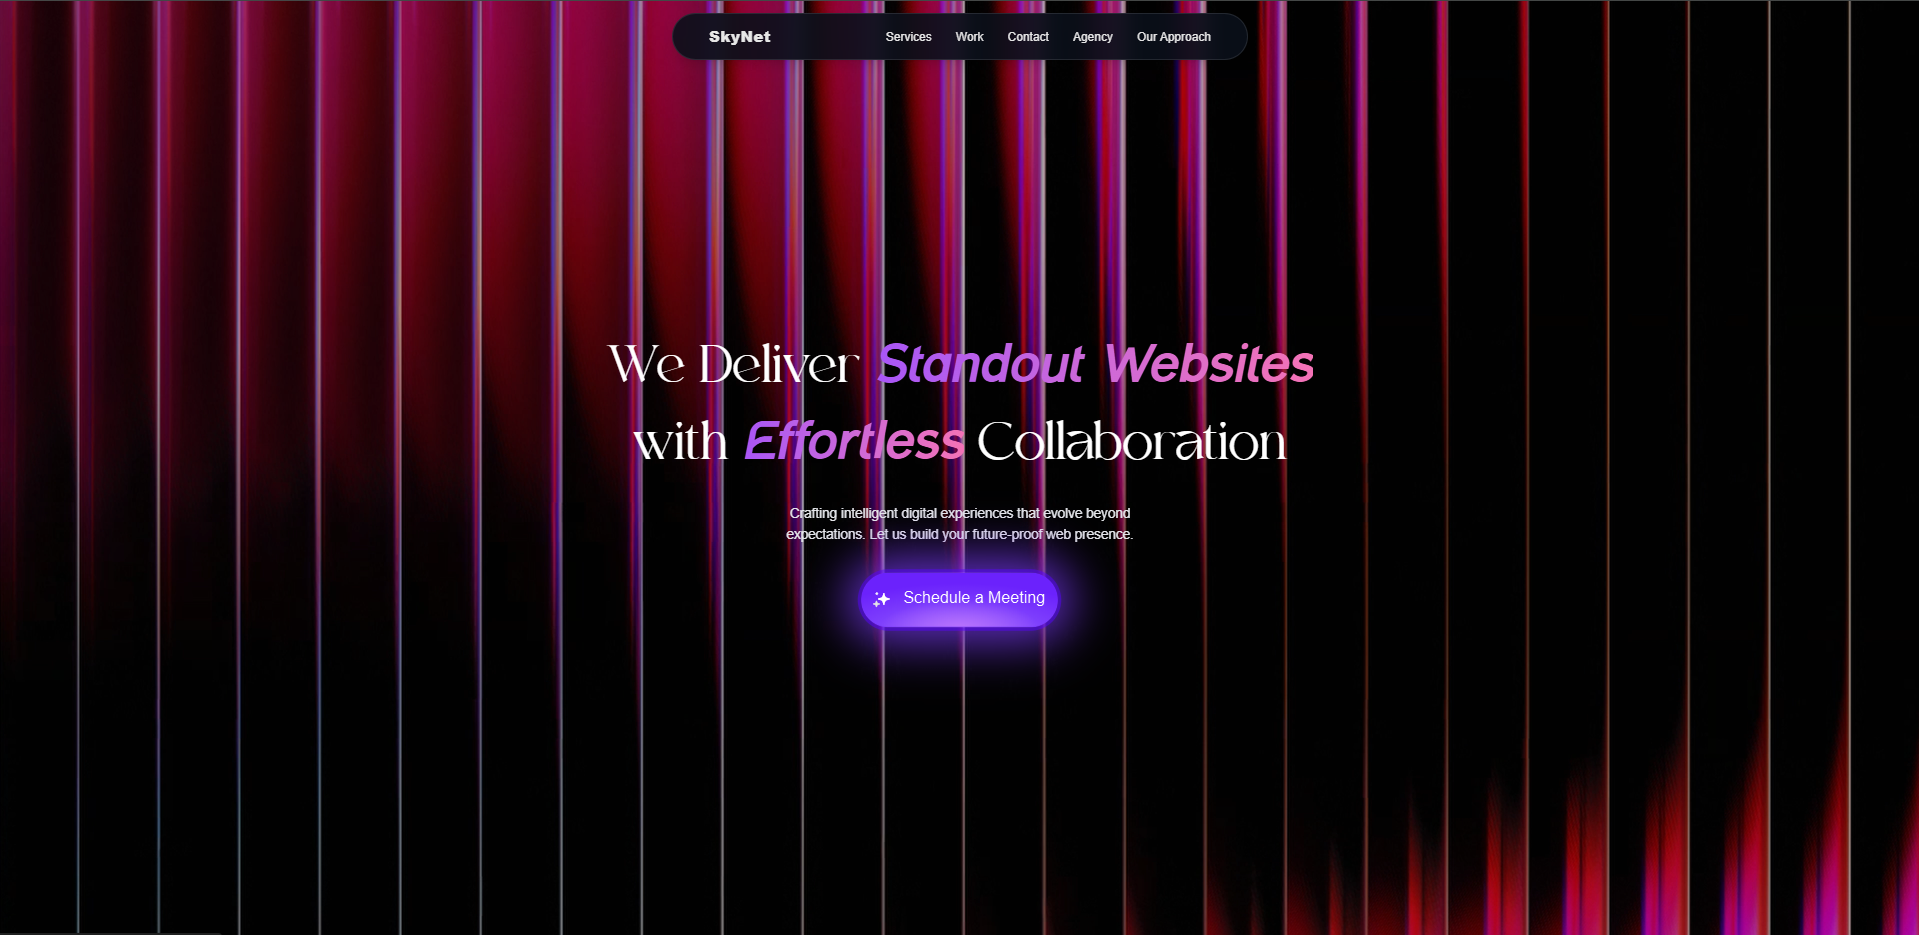
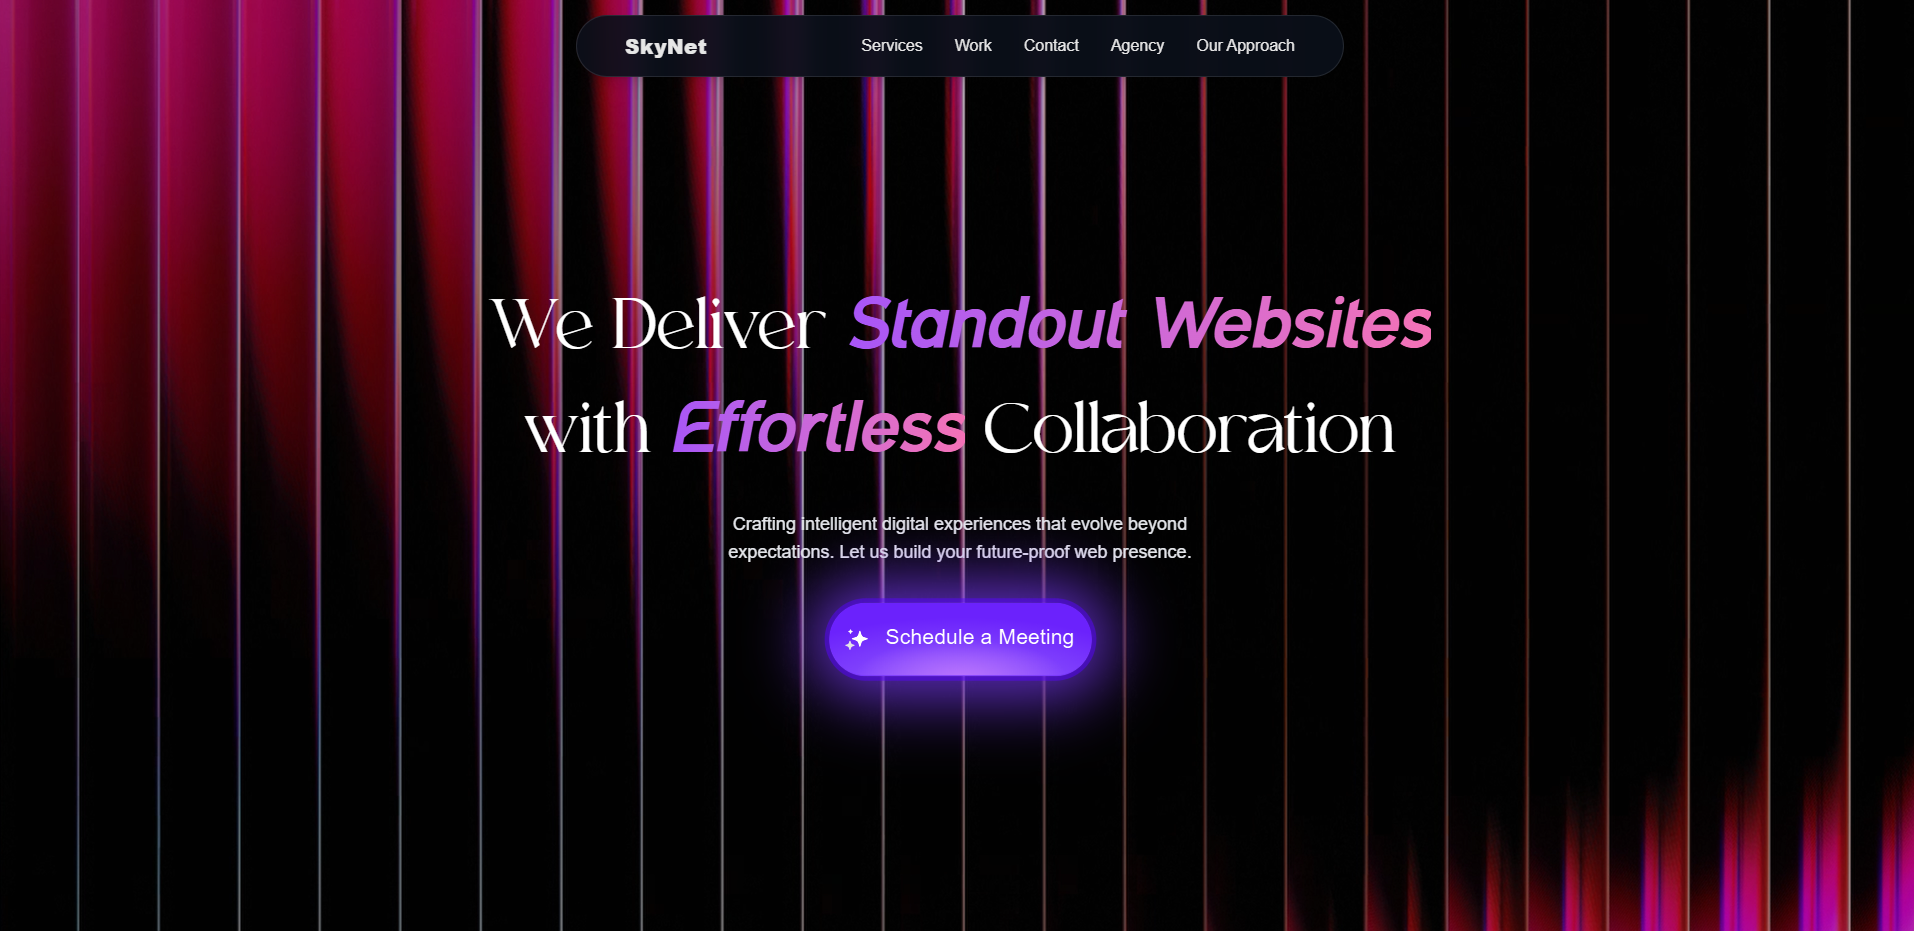
lazy-loading

diff --git a/components/Hero.tsx b/components/Hero.tsx
@@ -1,29 +1,56 @@
 'use client';
 
-import Spline from '@splinetool/react-spline';
+import { Suspense, lazy, useState, useEffect } from 'react';
 import Image from 'next/image';
 
+// Lazy load the Spline component
+const Spline = lazy(() => import('@splinetool/react-spline'));
+
+
+
 export default function HeroSection() {
+  const [shouldLoadSpline, setShouldLoadSpline] = useState(false);
+
+  useEffect(() => {
+    // Start loading Spline after a short delay to prioritize critical content
+    const timer = setTimeout(() => {
+      setShouldLoadSpline(true);
+    }, 100);
+
+    return () => clearTimeout(timer);
+  }, []);
+
   return (
     <div className="flex flex-col justify-between h-screen p-8 text-left relative overflow-hidden">
       <div className="absolute right-0 top-1/2 transform -translate-y-1/2 z-50">
         <Image
-          className='w-[300px] h-[300px] mr-[-150px] mt-[-50px] 
-                     sm:w-[400px] sm:h-[400px] sm:mr-[-175px] sm:mt-[-60px]
-                     md:w-[500px] md:h-[500px] md:mt-[-130px] md:mr-[-250px] 
-                     lg:w-[600px] lg:h-[600px] lg:mt-[-100px] lg:mr-[-300px] 
-                     xl:w-[800px] xl:h-[800px] xl:mr-[-400px] xl:mt-[5px] 
-                     z-50'
+          className='w-[300px] h-[300px] mr-[-150px] mt-[-50px]
+                    sm:w-[400px] sm:h-[400px] sm:mr-[-175px] sm:mt-[-60px]
+                   md:w-[500px] md:h-[500px] md:mt-[-130px] md:mr-[-250px]
+                    lg:w-[600px] lg:h-[600px] lg:mt-[-100px] lg:mr-[-300px]
+                    xl:w-[800px] xl:h-[800px] xl:mr-[-400px] xl:mt-[5px]
+                    z-50'
           src="/images/LA19.svg"
           alt="LA19"
           height={425}
-          width={425} 
-        />
+          width={425}
+          priority // This ensures the main image loads first
+         />
       </div>
 
-      {/* Spline 3D Background */}
+      {/* Spline 3D Background with Lazy Loading */}
       <div className="absolute inset-0 z-0 xl:h-[110vh] lg:h-[110vh] md:h-[110vh] h-[110vh] flex justify-center items-center">
-        <Spline scene="https://prod.spline.design/hrWCxQIJXoFxI6zI/scene.splinecode" />
+        {shouldLoadSpline && (
+          <Suspense fallback={null}>
+            <Spline 
+              scene="https://prod.spline.design/hrWCxQIJXoFxI6zI/scene.splinecode"
+              onLoad={() => {
+                // Optional: Add any callback when Spline loads
+                console.log('Spline scene loaded');
+              }}
+            />
+          </Suspense>
+        )}
       </div>
 
       {/* Content Overlay */}
@@ -34,11 +61,11 @@ export default function HeroSection() {
         </div>
 
         {/* Main Text */}
-        <div className="text-black text-3xl mt-[550px] 
+        <div className="text-black text-3xl mt-[550px]
                         sm:text-3xl sm:mt-[450px]
-                        md:text-4xl md:mt-[570px] 
-                        lg:text-5xl lg:mt-[450px] 
-                        xl:text-6xl" 
+                       md:text-4xl md:mt-[570px]
+                        lg:text-5xl lg:mt-[450px]
+                        xl:text-6xl"
              style={{ fontFamily: 'signifier' }}>
           <p>
             Innovater + Creative Director<br />
@@ -49,24 +76,15 @@ export default function HeroSection() {
 
         {/* Contact Info */}
         <div className="text-[#c40505] font-mono text-[15px] z-30
-                        sm:text-[14px]
-                        md:text-[15px] 
-                        lg:text-[15px] 
-                        xl:text-[20px] 
-                        tracking-wide" 
+                       sm:text-[14px]
+                       md:text-[15px]
+                        lg:text-[15px]
+                        xl:text-[20px]
+                        tracking-wide"
              style={{ fontFamily: 'GT' }}>
           PROJECT INQUIRIES &nbsp; ~ &nbsp; lovekeshanand6@gmail.com
         </div>
       </div>
-      
-      {/* <div className='w-55 h-10 ml-[235px] mb-[-15px] 
-                      sm:w-35 sm:h-12 sm:ml-[300px] sm:mb-[-18px]
-                      md:w-35 md:h-12 md:ml-[577px] md:mb-[-20px] 
-                      lg:w-35 lg:h-16 lg:ml-[835px] lg:mb-[-20px] 
-                      xl:w-40 xl:h-20 xl:ml-[1250px] xl:mb-[-50px] 
-                      2xl:ml-[1720px] 
-                      bg-white z-20'>
-      </div> */}
     </div>
   );
 }
